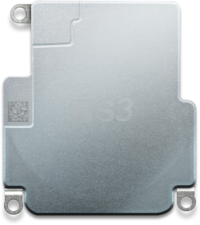
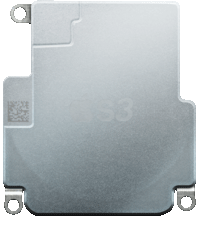
优化 chip img 大小

Changed region(s): [[0.0, 0.3733, 0.99, 0.9956], [0.03, 0.0311, 0.18, 0.3111], [0.9, 0.0311, 0.93, 0.4356]]

diff --git a/index.html b/index.html
@@ -6,7 +6,7 @@
     <meta name='description' content="苹果处理器,苹果芯片详细参数汇总,参数对比,iPad Pro,iPad Air,iPad Mini,iPad">
     <meta name='keywords' content="苹果处理器,苹果芯片详细参数汇总,参数对比,iPad Pro,iPad Air,iPad Mini,iPad">
     <meta name="viewport" content="width=device-width, initial-scale=1.0">
-    <link rel="stylesheet" href="scss/chip.css?v=20221130093730">
+    <link rel="stylesheet" href="scss/chip.css?v=20221130094812">
     <link rel="shortcut icon" href="imgs/logo_black.png" type="image/png">
     <link rel="apple-touch-icon" href="imgs/logo_black.png">
     <script src="../../lib/js/vue_2.66.js"></script>
@@ -187,7 +187,7 @@
 </div>
 
 
-<script src="chip.js?v=20221130093730"></script>
+<script src="chip.js?v=20221130094812"></script>
 
 <script>
     setTimeout(() => {
